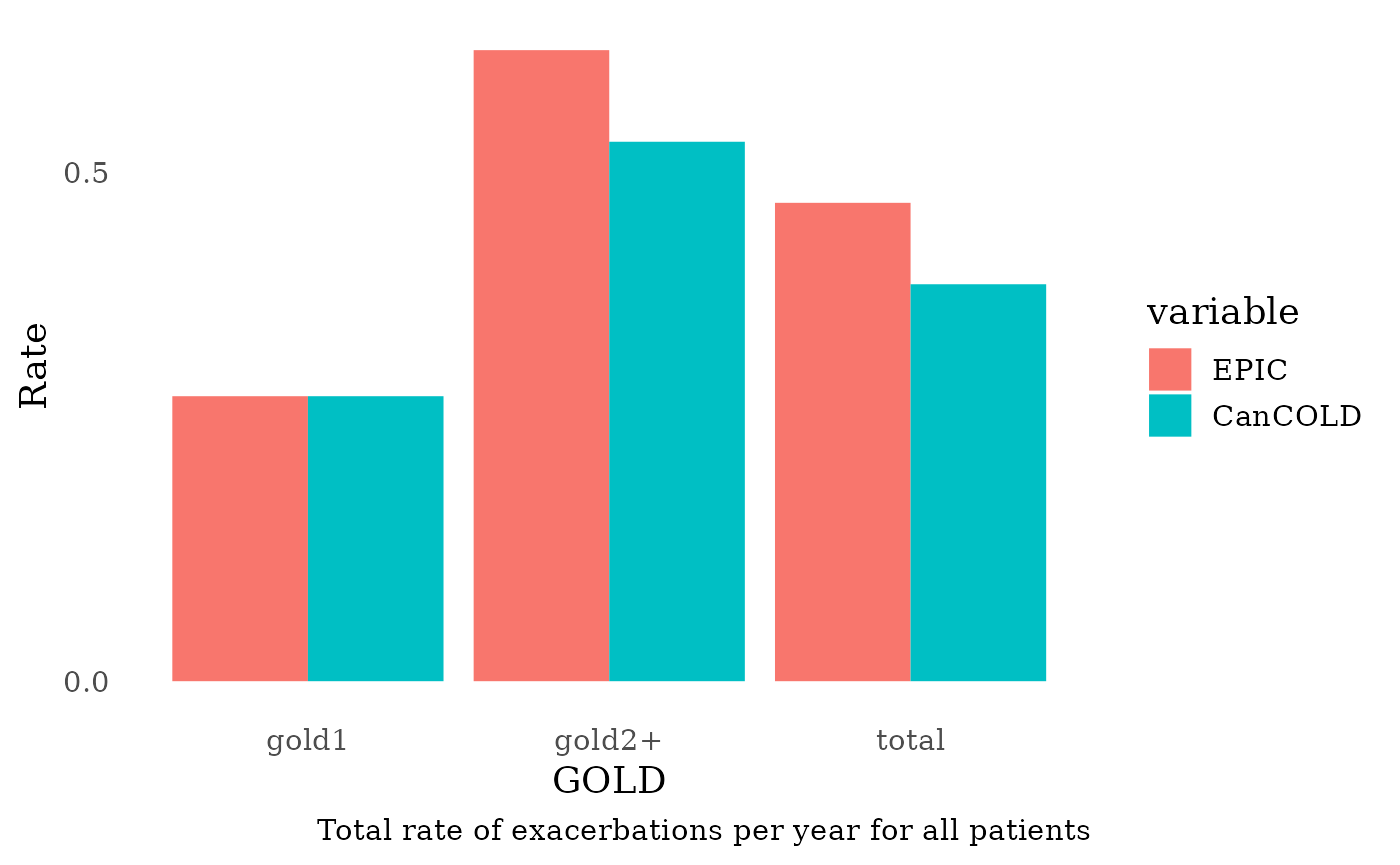
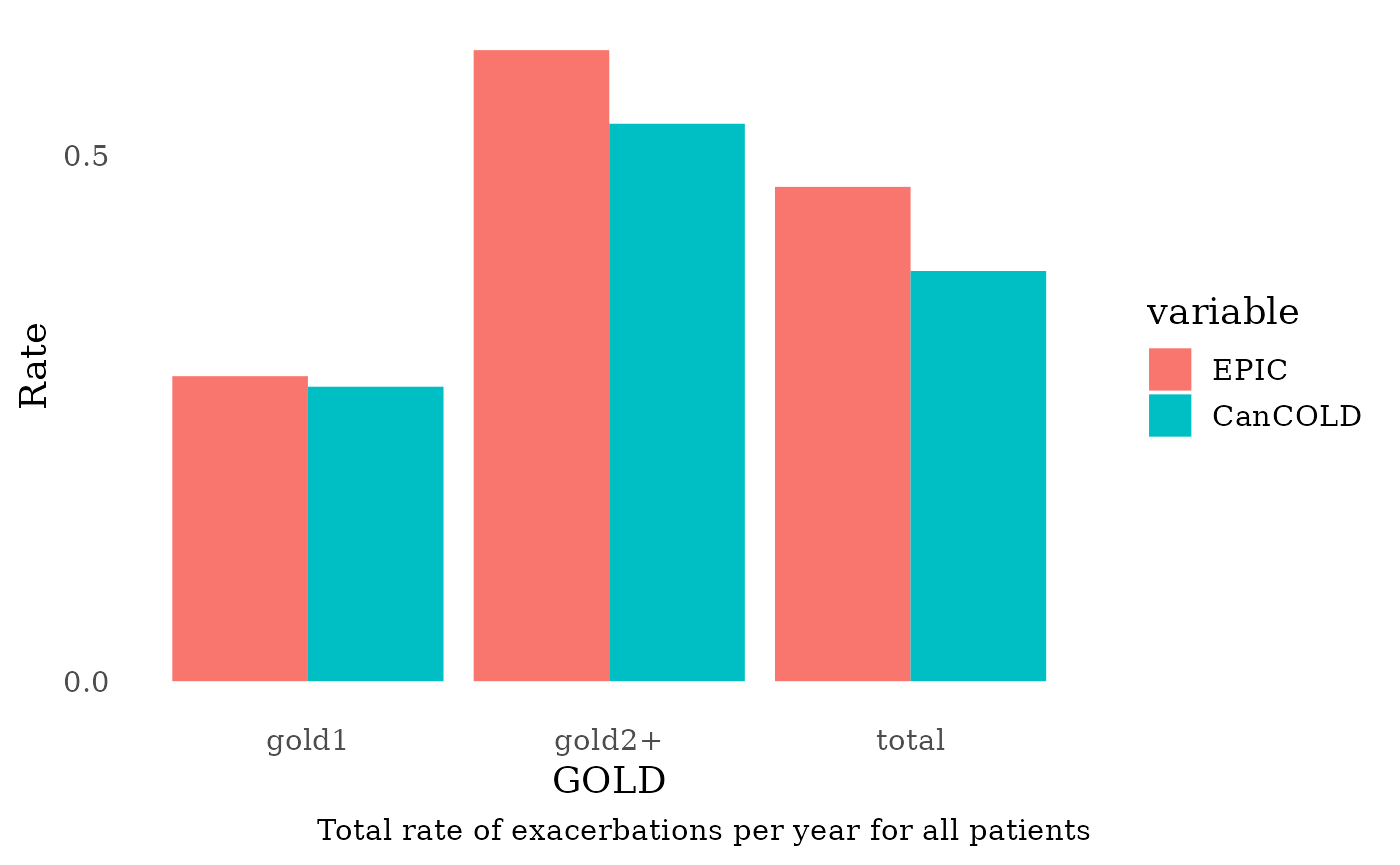
Deploying to gh-pages from @ resplab/epicR@821db74a400e4c45ccf54cf8cdcb14e317a6b965 🚀

diff --git a/articles/GettingStarted.html b/articles/GettingStarted.html
@@ -204,47 +204,47 @@
 <span><span class="va">events</span> <span class="op">&lt;-</span> <span class="fu"><a href="https://rdrr.io/r/base/as.data.frame.html" class="external-link">as.data.frame</a></span><span class="op">(</span><span class="fu"><a href="../reference/Cget_all_events_matrix.html">Cget_all_events_matrix</a></span><span class="op">(</span><span class="op">)</span><span class="op">)</span></span>
 <span><span class="fu"><a href="https://rdrr.io/r/utils/head.html" class="external-link">head</a></span><span class="op">(</span><span class="va">events</span><span class="op">)</span></span>
 <span><span class="co">#&gt;   id local_time female time_at_creation age_at_creation pack_years gold event</span></span>
-<span><span class="co">#&gt; 1  0          0      0                0        54.81048          0    0     0</span></span>
-<span><span class="co">#&gt; 2  0          1      0                0        54.81048          0    0     1</span></span>
-<span><span class="co">#&gt; 3  0          2      0                0        54.81048          0    0     1</span></span>
-<span><span class="co">#&gt; 4  0          3      0                0        54.81048          0    0     1</span></span>
-<span><span class="co">#&gt; 5  0          4      0                0        54.81048          0    0     1</span></span>
-<span><span class="co">#&gt; 6  0          5      0                0        54.81048          0    0    14</span></span>
-<span><span class="co">#&gt;   FEV1 FEV1_slope FEV1_acceleration pred_FEV1 smoking_status localtime_at_COPD</span></span>
-<span><span class="co">#&gt; 1    0          0                 0         0              0                 0</span></span>
-<span><span class="co">#&gt; 2    0          0                 0         0              0                 0</span></span>
-<span><span class="co">#&gt; 3    0          0                 0         0              0                 0</span></span>
-<span><span class="co">#&gt; 4    0          0                 0         0              0                 0</span></span>
-<span><span class="co">#&gt; 5    0          0                 0         0              0                 0</span></span>
-<span><span class="co">#&gt; 6    0          0                 0         0              0                 0</span></span>
-<span><span class="co">#&gt;   age_at_COPD weight_at_COPD   height followup_after_COPD FEV1_baseline</span></span>
-<span><span class="co">#&gt; 1           0              0 1.560655                   0      3.621981</span></span>
-<span><span class="co">#&gt; 2           0              0 1.560655                   0      3.621981</span></span>
-<span><span class="co">#&gt; 3           0              0 1.560655                   0      3.621981</span></span>
-<span><span class="co">#&gt; 4           0              0 1.560655                   0      3.621981</span></span>
-<span><span class="co">#&gt; 5           0              0 1.560655                   0      3.621981</span></span>
-<span><span class="co">#&gt; 6           0              0 1.560655                   0      3.621981</span></span>
-<span><span class="co">#&gt;   exac_status cough phlegm wheeze dyspnea gpvisits diagnosis medication_status</span></span>
-<span><span class="co">#&gt; 1           0     0      0      0       0        0         0                 0</span></span>
-<span><span class="co">#&gt; 2           0     0      0      1       0        0         0                 0</span></span>
-<span><span class="co">#&gt; 3           0     1      0      0       0        0         0                 0</span></span>
-<span><span class="co">#&gt; 4           0     0      0      0       0        2         0                 0</span></span>
-<span><span class="co">#&gt; 5           0     1      1      1       0        0         0                 0</span></span>
-<span><span class="co">#&gt; 6           0     1      1      1       0        0         0                 0</span></span>
-<span><span class="co">#&gt;   case_detection cumul_cost cumul_qaly time_at_diagnosis</span></span>
-<span><span class="co">#&gt; 1              0          0  0.0000000                 0</span></span>
-<span><span class="co">#&gt; 2              0          0  0.8349515                 0</span></span>
-<span><span class="co">#&gt; 3              0          0  1.6455839                 0</span></span>
-<span><span class="co">#&gt; 4              0          0  2.4326058                 0</span></span>
-<span><span class="co">#&gt; 5              0          0  3.1967046                 0</span></span>
-<span><span class="co">#&gt; 6              0          0  3.9385482                 0</span></span>
+<span><span class="co">#&gt; 1  0   0.000000      1                0        84.23043   13.91126    2     0</span></span>
+<span><span class="co">#&gt; 2  0   1.000000      1                0        84.23043   13.91126    2     1</span></span>
+<span><span class="co">#&gt; 3  0   1.346997      1                0        84.23043   13.91126    2     5</span></span>
+<span><span class="co">#&gt; 4  0   1.375933      1                0        84.23043   13.91126    2     6</span></span>
+<span><span class="co">#&gt; 5  0   2.000000      1                0        84.23043   13.91126    2     1</span></span>
+<span><span class="co">#&gt; 6  0   3.000000      1                0        84.23043   13.91126    2     1</span></span>
+<span><span class="co">#&gt;       FEV1  FEV1_slope FEV1_acceleration pred_FEV1 smoking_status</span></span>
+<span><span class="co">#&gt; 1 1.201492 -0.01260423          -0.00146  1.816672              0</span></span>
+<span><span class="co">#&gt; 2 1.184508 -0.01260423          -0.00146  1.780187              0</span></span>
+<span><span class="co">#&gt; 3 1.184508 -0.01260423          -0.00146  1.780187              0</span></span>
+<span><span class="co">#&gt; 4 1.184508 -0.01260423          -0.00146  1.780187              0</span></span>
+<span><span class="co">#&gt; 5 1.164604 -0.01260423          -0.00146  1.743313              0</span></span>
+<span><span class="co">#&gt; 6 1.141780 -0.01260423          -0.00146  1.706052              0</span></span>
+<span><span class="co">#&gt;   localtime_at_COPD age_at_COPD weight_at_COPD   height followup_after_COPD</span></span>
+<span><span class="co">#&gt; 1                 0    84.23043       50.59558 1.632521                   0</span></span>
+<span><span class="co">#&gt; 2                 0    84.23043       50.59558 1.632521                   1</span></span>
+<span><span class="co">#&gt; 3                 0    84.23043       50.59558 1.632521                   1</span></span>
+<span><span class="co">#&gt; 4                 0    84.23043       50.59558 1.632521                   1</span></span>
+<span><span class="co">#&gt; 5                 0    84.23043       50.59558 1.632521                   2</span></span>
+<span><span class="co">#&gt; 6                 0    84.23043       50.59558 1.632521                   3</span></span>
+<span><span class="co">#&gt;   FEV1_baseline exac_status cough phlegm wheeze dyspnea gpvisits diagnosis</span></span>
+<span><span class="co">#&gt; 1      1.201492           0     0      1      0       0        0         1</span></span>
+<span><span class="co">#&gt; 2      1.201492           0     1      1      1       1        3         1</span></span>
+<span><span class="co">#&gt; 3      1.201492           2     1      1      1       1        3         1</span></span>
+<span><span class="co">#&gt; 4      1.201492           0     1      1      1       1        3         1</span></span>
+<span><span class="co">#&gt; 5      1.201492           0     0      0      0       1        4         1</span></span>
+<span><span class="co">#&gt; 6      1.201492           0     0      0      0       1        5         1</span></span>
+<span><span class="co">#&gt;   medication_status case_detection cumul_cost cumul_qaly time_at_diagnosis</span></span>
+<span><span class="co">#&gt; 1                 0              0      0.000  0.0000000                 0</span></span>
+<span><span class="co">#&gt; 2                 0              0    347.424  0.6990291                 0</span></span>
+<span><span class="co">#&gt; 3                 4              0    470.005  0.7112668                 0</span></span>
+<span><span class="co">#&gt; 4                 4              0   1234.338  0.6959381                 0</span></span>
+<span><span class="co">#&gt; 5                 4              0   1812.443  1.3971967                 0</span></span>
+<span><span class="co">#&gt; 6                 4              0   2513.129  2.0896844                 0</span></span>
 <span><span class="co">#&gt;   exac_history_n_moderate exac_history_n_severe_plus</span></span>
 <span><span class="co">#&gt; 1                       0                          0</span></span>
 <span><span class="co">#&gt; 2                       0                          0</span></span>
-<span><span class="co">#&gt; 3                       0                          0</span></span>
-<span><span class="co">#&gt; 4                       0                          0</span></span>
-<span><span class="co">#&gt; 5                       0                          0</span></span>
-<span><span class="co">#&gt; 6                       0                          0</span></span>
+<span><span class="co">#&gt; 3                       1                          0</span></span>
+<span><span class="co">#&gt; 4                       1                          0</span></span>
+<span><span class="co">#&gt; 5                       1                          0</span></span>
+<span><span class="co">#&gt; 6                       1                          0</span></span>
 <span><span class="fu"><a href="../reference/terminate_session.html">terminate_session</a></span><span class="op">(</span><span class="op">)</span></span>
 <span><span class="co">#&gt; Terminating the session</span></span>
 <span><span class="co">#&gt; [1] 0</span></span></code></pre></div>
@@ -320,34 +320,34 @@
 <span><span class="co">#&gt; [1] 60001</span></span>
 <span><span class="co">#&gt; </span></span>
 <span><span class="co">#&gt; $cumul_time</span></span>
-<span><span class="co">#&gt; [1] 1000361</span></span>
+<span><span class="co">#&gt; [1] 999204.4</span></span>
 <span><span class="co">#&gt; </span></span>
 <span><span class="co">#&gt; $n_deaths</span></span>
-<span><span class="co">#&gt; [1] 20064</span></span>
+<span><span class="co">#&gt; [1] 20240</span></span>
 <span><span class="co">#&gt; </span></span>
 <span><span class="co">#&gt; $n_COPD</span></span>
-<span><span class="co">#&gt; [1] 11727</span></span>
+<span><span class="co">#&gt; [1] 11785</span></span>
 <span><span class="co">#&gt; </span></span>
 <span><span class="co">#&gt; $total_exac</span></span>
-<span><span class="co">#&gt; [1] 11403 52907  4864   386</span></span>
+<span><span class="co">#&gt; [1] 10992 51968  4882   382</span></span>
 <span><span class="co">#&gt; </span></span>
 <span><span class="co">#&gt; $total_exac_time</span></span>
-<span><span class="co">#&gt; [1]  1.998138 10.486397  9.824048  1.231481</span></span>
+<span><span class="co">#&gt; [1]  1.80415 10.75754 10.09833  1.18936</span></span>
 <span><span class="co">#&gt; </span></span>
 <span><span class="co">#&gt; $total_pack_years</span></span>
-<span><span class="co">#&gt; [1] 845511</span></span>
+<span><span class="co">#&gt; [1] 853696.1</span></span>
 <span><span class="co">#&gt; </span></span>
 <span><span class="co">#&gt; $total_doctor_visit</span></span>
 <span><span class="co">#&gt; [1] 0 0</span></span>
 <span><span class="co">#&gt; </span></span>
 <span><span class="co">#&gt; $total_cost</span></span>
-<span><span class="co">#&gt; [1] 180709395</span></span>
+<span><span class="co">#&gt; [1] 178947578</span></span>
 <span><span class="co">#&gt; </span></span>
 <span><span class="co">#&gt; $total_qaly</span></span>
-<span><span class="co">#&gt; [1] 639887.7</span></span>
+<span><span class="co">#&gt; [1] 639526.7</span></span>
 <span><span class="co">#&gt; </span></span>
 <span><span class="co">#&gt; $total_diagnosed_time</span></span>
-<span><span class="co">#&gt; [1] 42451.33</span></span>
+<span><span class="co">#&gt; [1] 41890.52</span></span>
 <span><span class="fu"><a href="../reference/terminate_session.html">terminate_session</a></span><span class="op">(</span><span class="op">)</span></span>
 <span><span class="co">#&gt; Terminating the session</span></span>
 <span><span class="co">#&gt; [1] 0</span></span></code></pre></div>

diff --git a/articles/RecalibratingEPIC.html b/articles/RecalibratingEPIC.html
@@ -90,16 +90,16 @@
 <span><span class="co">#&gt; Initializing the session</span></span>
 <span><span class="co">#&gt; Terminating the session</span></span>
 <span><span class="co">#&gt; Exacerbation Rates per GOLD stages for all patients:</span></span>
-<span><span class="co">#&gt; exacRateGOLDI   = 0.28</span></span>
-<span><span class="co">#&gt; exacRateGOLDII  = 0.54</span></span>
-<span><span class="co">#&gt; exacRateGOLDIII = 0.81</span></span>
-<span><span class="co">#&gt; exacRateGOLDIV  = 1.11</span></span>
+<span><span class="co">#&gt; exacRateGOLDI   = 0.29</span></span>
+<span><span class="co">#&gt; exacRateGOLDII  = 0.53</span></span>
+<span><span class="co">#&gt; exacRateGOLDIII = 0.78</span></span>
+<span><span class="co">#&gt; exacRateGOLDIV  = 1.08</span></span>
 <span><span class="co">#&gt; Total rate of exacerbation in all patients (0.39 per year in CanCOLD): 0.47</span></span>
 <span><span class="co">#&gt; Is the rate of severe and very severe exacerbations around 477 per CIHI?</span></span>
-<span><span class="co">#&gt; Average rate during 20 years: 455.94</span></span>
-<span><span class="co">#&gt; Rate in 2017: 366.74</span></span></code></pre></div>
+<span><span class="co">#&gt; Average rate during 20 years: 438.94</span></span>
+<span><span class="co">#&gt; Rate in 2017: 341.22</span></span></code></pre></div>
 <p><img src="RecalibratingEPIC_files/figure-html/validation-1.png" width="700"></p>
-<pre><code><span><span class="co">#&gt; Total rate of exacerbation in diagnosed patients (1.5 per year in Hoogendoorn): 0.89</span></span></code></pre>
+<pre><code><span><span class="co">#&gt; Total rate of exacerbation in diagnosed patients (1.5 per year in Hoogendoorn): 0.88</span></span></code></pre>
 <p><img src="RecalibratingEPIC_files/figure-html/validation-2.png" width="700"><img src="RecalibratingEPIC_files/figure-html/validation-3.png" width="700"></p>
 <pre><code><span><span class="co">#&gt; Total rate of exacerbation in undiagnosed patients (0.30 per year in CanCOLD): 0.25</span></span></code></pre>
 <p><img src="RecalibratingEPIC_files/figure-html/validation-4.png" width="700"></p>
@@ -112,19 +112,39 @@
 <span><span class="co">#&gt; Initializing the session</span></span>
 <span><span class="co">#&gt; Terminating the session</span></span>
 <span><span class="co">#&gt; Exacerbation Rates per GOLD stages for all patients:</span></span>
-<span><span class="co">#&gt; exacRateGOLDI   = 0.5</span></span>
-<span><span class="co">#&gt; exacRateGOLDII  = 0.85</span></span>
-<span><span class="co">#&gt; exacRateGOLDIII = 1.39</span></span>
-<span><span class="co">#&gt; exacRateGOLDIV  = 1.71</span></span>
-<span><span class="co">#&gt; Total rate of exacerbation in all patients (0.39 per year in CanCOLD): 0.78</span></span>
+<span><span class="co">#&gt; exacRateGOLDI   = 0.51</span></span>
+<span><span class="co">#&gt; exacRateGOLDII  = 0.87</span></span>
+<span><span class="co">#&gt; exacRateGOLDIII = 1.41</span></span>
+<span><span class="co">#&gt; exacRateGOLDIV  = 1.67</span></span>
+<span><span class="co">#&gt; Total rate of exacerbation in all patients (0.39 per year in CanCOLD): 0.79</span></span>
 <span><span class="co">#&gt; Is the rate of severe and very severe exacerbations around 477 per CIHI?</span></span>
-<span><span class="co">#&gt; Average rate during 20 years: 705.98</span></span>
-<span><span class="co">#&gt; Rate in 2017: 705.71</span></span></code></pre></div>
+<span><span class="co">#&gt; Average rate during 20 years: 737.68</span></span>
+<span><span class="co">#&gt; Rate in 2017: 742.77</span></span></code></pre></div>
 <p><img src="RecalibratingEPIC_files/figure-html/validationNewEquation-1.png" width="700"></p>
-<pre><code><span><span class="co">#&gt; Total rate of exacerbation in diagnosed patients (1.5 per year in Hoogendoorn): 1.1</span></span></code></pre>
+<pre><code><span><span class="co">#&gt; Total rate of exacerbation in diagnosed patients (1.5 per year in Hoogendoorn): 1.14</span></span></code></pre>
 <p><img src="RecalibratingEPIC_files/figure-html/validationNewEquation-2.png" width="700"><img src="RecalibratingEPIC_files/figure-html/validationNewEquation-3.png" width="700"></p>
 <pre><code><span><span class="co">#&gt; Total rate of exacerbation in undiagnosed patients (0.30 per year in CanCOLD): 0.5</span></span></code></pre>
 <p><img src="RecalibratingEPIC_files/figure-html/validationNewEquation-4.png" width="700"></p>
+<p>Let’s try to improve that by lowering GOLD coefficients:</p>
+<div class="sourceCode" id="cb8"><pre class="downlit sourceCode r">
+<code class="sourceCode R"><span><span class="va">inputs</span><span class="op">$</span><span class="va">exacerbation</span><span class="op">$</span><span class="va">ln_rate_betas</span> <span class="op">&lt;-</span> <span class="fu"><a href="https://rdrr.io/r/base/t.html" class="external-link">t</a></span><span class="op">(</span><span class="fu"><a href="https://rdrr.io/r/base/matrix.html" class="external-link">as.matrix</a></span><span class="op">(</span><span class="fu"><a href="https://rdrr.io/r/base/c.html" class="external-link">c</a></span><span class="op">(</span>intercept <span class="op">=</span> <span class="fl">1.7</span>, female <span class="op">=</span> <span class="fl">0</span>, age <span class="op">=</span> <span class="fl">0.04082</span> <span class="op">*</span> <span class="fl">0.1</span>, fev1 <span class="op">=</span> <span class="op">-</span><span class="fl">1.5</span>, smoking_status <span class="op">=</span> <span class="fl">0</span>, gold1 <span class="op">=</span> <span class="fl">0.3</span> , gold2 <span class="op">=</span> <span class="fl">0.1</span> , gold3 <span class="op">=</span> <span class="fl">0.08</span> , gold4 <span class="op">=</span> <span class="op">-</span><span class="fl">0.35</span> , diagnosis_effect <span class="op">=</span> <span class="fl">0</span><span class="op">)</span><span class="op">)</span><span class="op">)</span></span>
+<span><span class="fu"><a href="../reference/validate_exacerbation.html">validate_exacerbation</a></span><span class="op">(</span><span class="fl">5e4</span>, <span class="va">inputs</span><span class="op">)</span></span>
+<span><span class="co">#&gt; Initializing the session</span></span>
+<span><span class="co">#&gt; Terminating the session</span></span>
+<span><span class="co">#&gt; Exacerbation Rates per GOLD stages for all patients:</span></span>
+<span><span class="co">#&gt; exacRateGOLDI   = 0.39</span></span>
+<span><span class="co">#&gt; exacRateGOLDII  = 0.7</span></span>
+<span><span class="co">#&gt; exacRateGOLDIII = 1.41</span></span>
+<span><span class="co">#&gt; exacRateGOLDIV  = 1.59</span></span>
+<span><span class="co">#&gt; Total rate of exacerbation in all patients (0.39 per year in CanCOLD): 0.66</span></span>
+<span><span class="co">#&gt; Is the rate of severe and very severe exacerbations around 477 per CIHI?</span></span>
+<span><span class="co">#&gt; Average rate during 20 years: 683.52</span></span>
+<span><span class="co">#&gt; Rate in 2017: 573.93</span></span></code></pre></div>
+<p><img src="RecalibratingEPIC_files/figure-html/validationNewEquation2-1.png" width="700"></p>
+<pre><code><span><span class="co">#&gt; Total rate of exacerbation in diagnosed patients (1.5 per year in Hoogendoorn): 0.99</span></span></code></pre>
+<p><img src="RecalibratingEPIC_files/figure-html/validationNewEquation2-2.png" width="700"><img src="RecalibratingEPIC_files/figure-html/validationNewEquation2-3.png" width="700"></p>
+<pre><code><span><span class="co">#&gt; Total rate of exacerbation in undiagnosed patients (0.30 per year in CanCOLD): 0.39</span></span></code></pre>
+<p><img src="RecalibratingEPIC_files/figure-html/validationNewEquation2-4.png" width="700"></p>
   </div>
 
   <div class="col-md-3 hidden-xs hidden-sm" id="pkgdown-sidebar">
